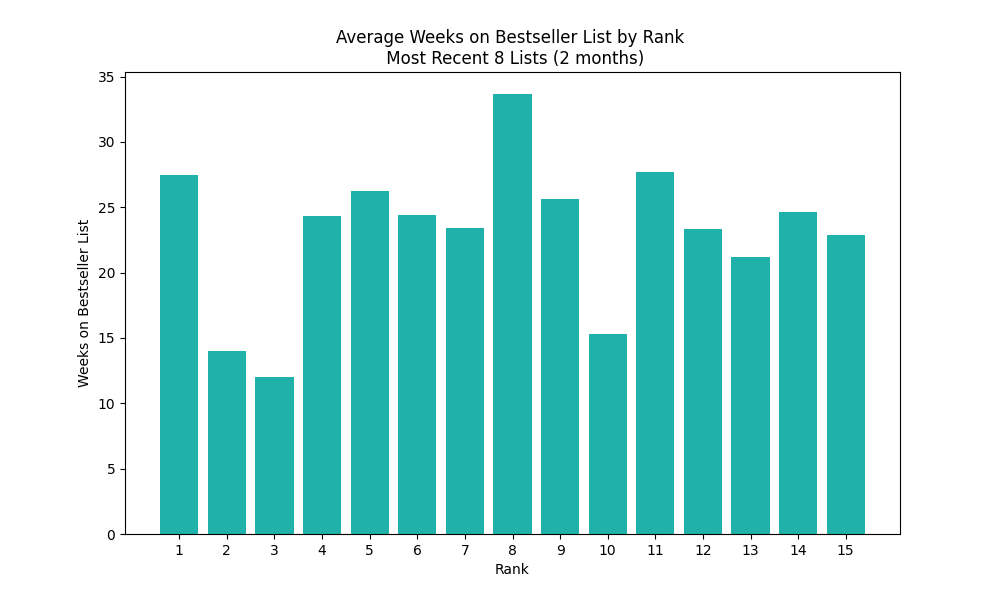
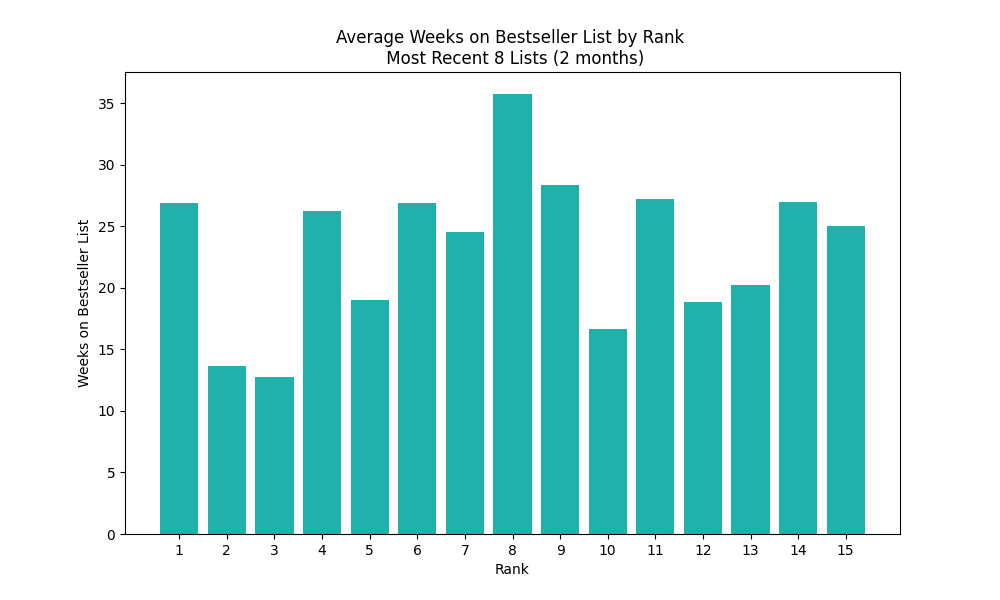
reorganization

diff --git a/Analysis.py b/Analysis.py
@@ -4,6 +4,11 @@ import yaml
 import requests
 import pandas as pd
 import datetime as dt
+import time
+import logging
+
+# configure logging
+logging.basicConfig(level=logging.ERROR, filename='error.log')
 
 class Analysis():
 
@@ -40,7 +45,7 @@ class Analysis():
 
         self.config = config
 
-    def load_data(self) -> None:
+    def load_data(self, sleep=12) -> None:
         ''' Retrieve data from the NYT Best Sellers API
 
         This function makes a series of HTTPS request to the NYT Best Sellers API and retrieves data on authors,
@@ -57,51 +62,59 @@ class Analysis():
 
         '''
         
-        # Load system configuration
+        # load system configuration
         with open('configs/system_config.yml', 'r') as f:
             system_config = yaml.safe_load(f)
 
-        """
-       
-        # Access NYT API key from the system configuration
+        # access NYT API key from the system configuration
         key = system_config.get('nyt_key')
 
         # loop dates
         current_date = dt.date.today()
-        loop_date = current_date - dt.timedelta(weeks=8) # gets us 2 months of weekly books lists
+        loop_date = current_date - dt.timedelta(weeks=7) # gets us 2 months of weekly books lists
         one_week = dt.timedelta(weeks=1)
 
+        # initialize empty list to hold the API data
         self.books = []
 
         while loop_date <= current_date:
-            print(loop_date)
-            # URL for the best-sellers list endpoint
-            url = f'https://api.nytimes.com/svc/books/v3/lists/{loop_date}/hardcover-fiction.json?api-key={key}'
+            try:
+                print(loop_date)
+                # URL for the best-sellers list endpoint
+                url = f'https://api.nytimes.com/svc/books/v3/lists/{loop_date}/hardcover-fiction.json?api-key={key}'
 
-            # GET data from NYT API
-            response = requests.get(url)
+                # GET data from NYT API
+                response = requests.get(url)
+                
+                # check if the request was successful
+                if response.status_code == 200 :
+                    print('Data fetched successfully from the API')
+                else :
+                    raise Exception(
+                        'Error fetching data from the API. One possibility is you overwrote the sleep parameter, which controls the timing of calls to the API. Suggest increasing to at least 12 seconds.')
+                    
+                # parse the JSON response
+                data = response.json()
+                
+                # append from loop
+                self.books.extend(data['results']['books'])
+                
+                # increment week
+                loop_date += one_week
+                
+                # pause for 12 seconds or user input (apparently NYT controls rapid API calls)
+                time.sleep(sleep)
+                
+            except Exception as e:
+                logging.error(f"An error occurred while fetching data: {e}")
+                raise
 
-            # check if the request was successful
-            if response.status_code == 200:
-                print('Data fetched successfully data from the API')
-            else:
-                print('Error fetching data from the API')
+        self.df = pd.DataFrame(self.books).dropna(how='all')
 
-            # parse the JSON response
-            data = response.json()
-
-            # append from loop
-            self.books.extend(data['results']['books'])
-
-            # increment week
-            loop_date += one_week
-            
-            # Pause for 12 seconds (apparently NYT titrates API calls)
-            time.sleep(12)
-        
-        self.df = pd.DataFrame(self.books)
-        """
-        self.df = pd.read_csv('test_data.csv')
+        if not isinstance(self.df, pd.DataFrame) :
+            raise TypeError('The stored value is not a DataFrame.')
+        else :
+            return self.df
 
     def compute_analysis(self) -> Any:
         '''Compute the average weeks on the New York Times Best Sellers list by rank.
@@ -143,14 +156,14 @@ class Analysis():
         '''
         mean_weeks_on_list = self.compute_analysis()
 
-        # Plot configurations
+        # plot configs
         color = self.config['plot_config']['color']
         title = self.config['plot_config']['title']
         xtitle = self.config['plot_config']['xtitle']
         ytitle = self.config['plot_config']['ytitle']
         fig_size = self.config['plot_config']['fig_size']
 
-        # Bar Plot
+        # bar Plot
         fig1 = plt.figure(figsize=fig_size)
         plt.bar(mean_weeks_on_list.index, mean_weeks_on_list.values, color=color)
         plt.title(title)
@@ -166,7 +179,7 @@ class Analysis():
 
         plt.show()
 
-        # Scatter plot (added from issue #3)
+        # scatter plot (added from issue #3)
         fig2 = plt.figure(figsize=fig_size)
         plt.scatter(self.df['rank'], self.df['weeks_on_list'], color=color, alpha=0.5)
         plt.title('Scatter Plot of Weeks on List vs Rank')
@@ -197,6 +210,8 @@ class Analysis():
         -------
         None
         '''
+
+        # notification of completed analysis
         datetime = dt.datetime.now()
         requests.post(self.config['ntfy_topic'],
             data = f'✅ Analysis completed at {datetime}. Check results and figure!'.encode(encoding='utf-8'),
